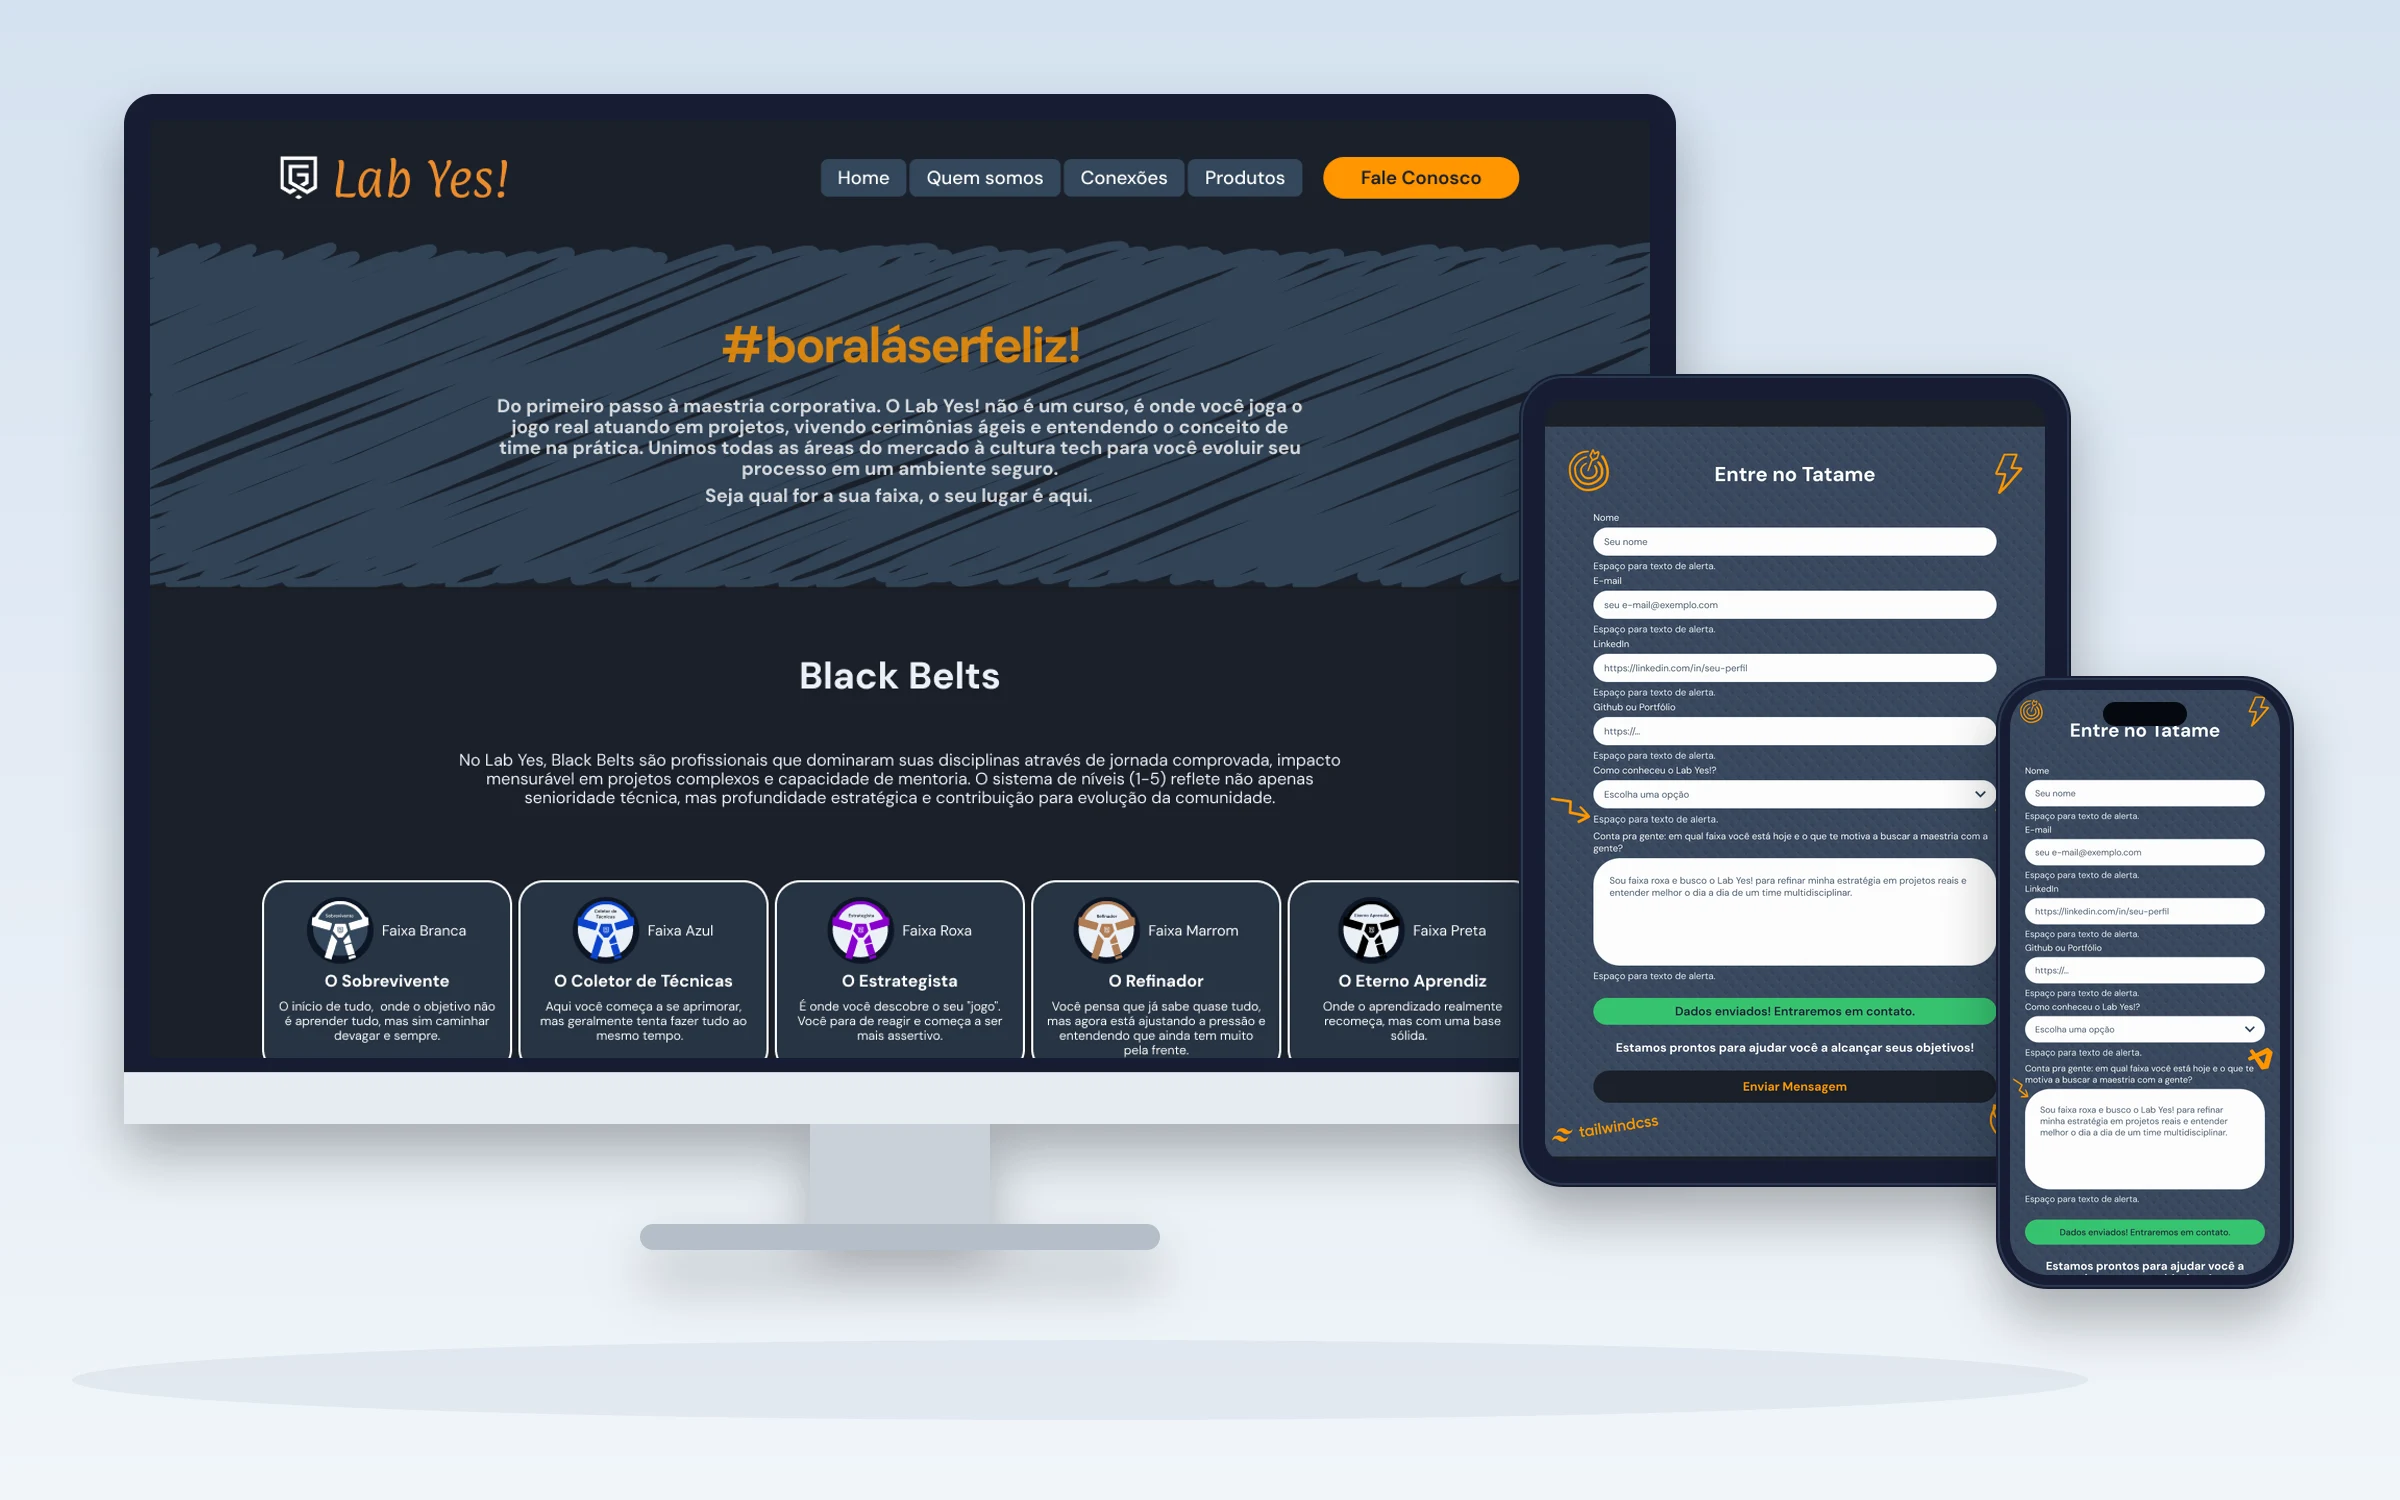
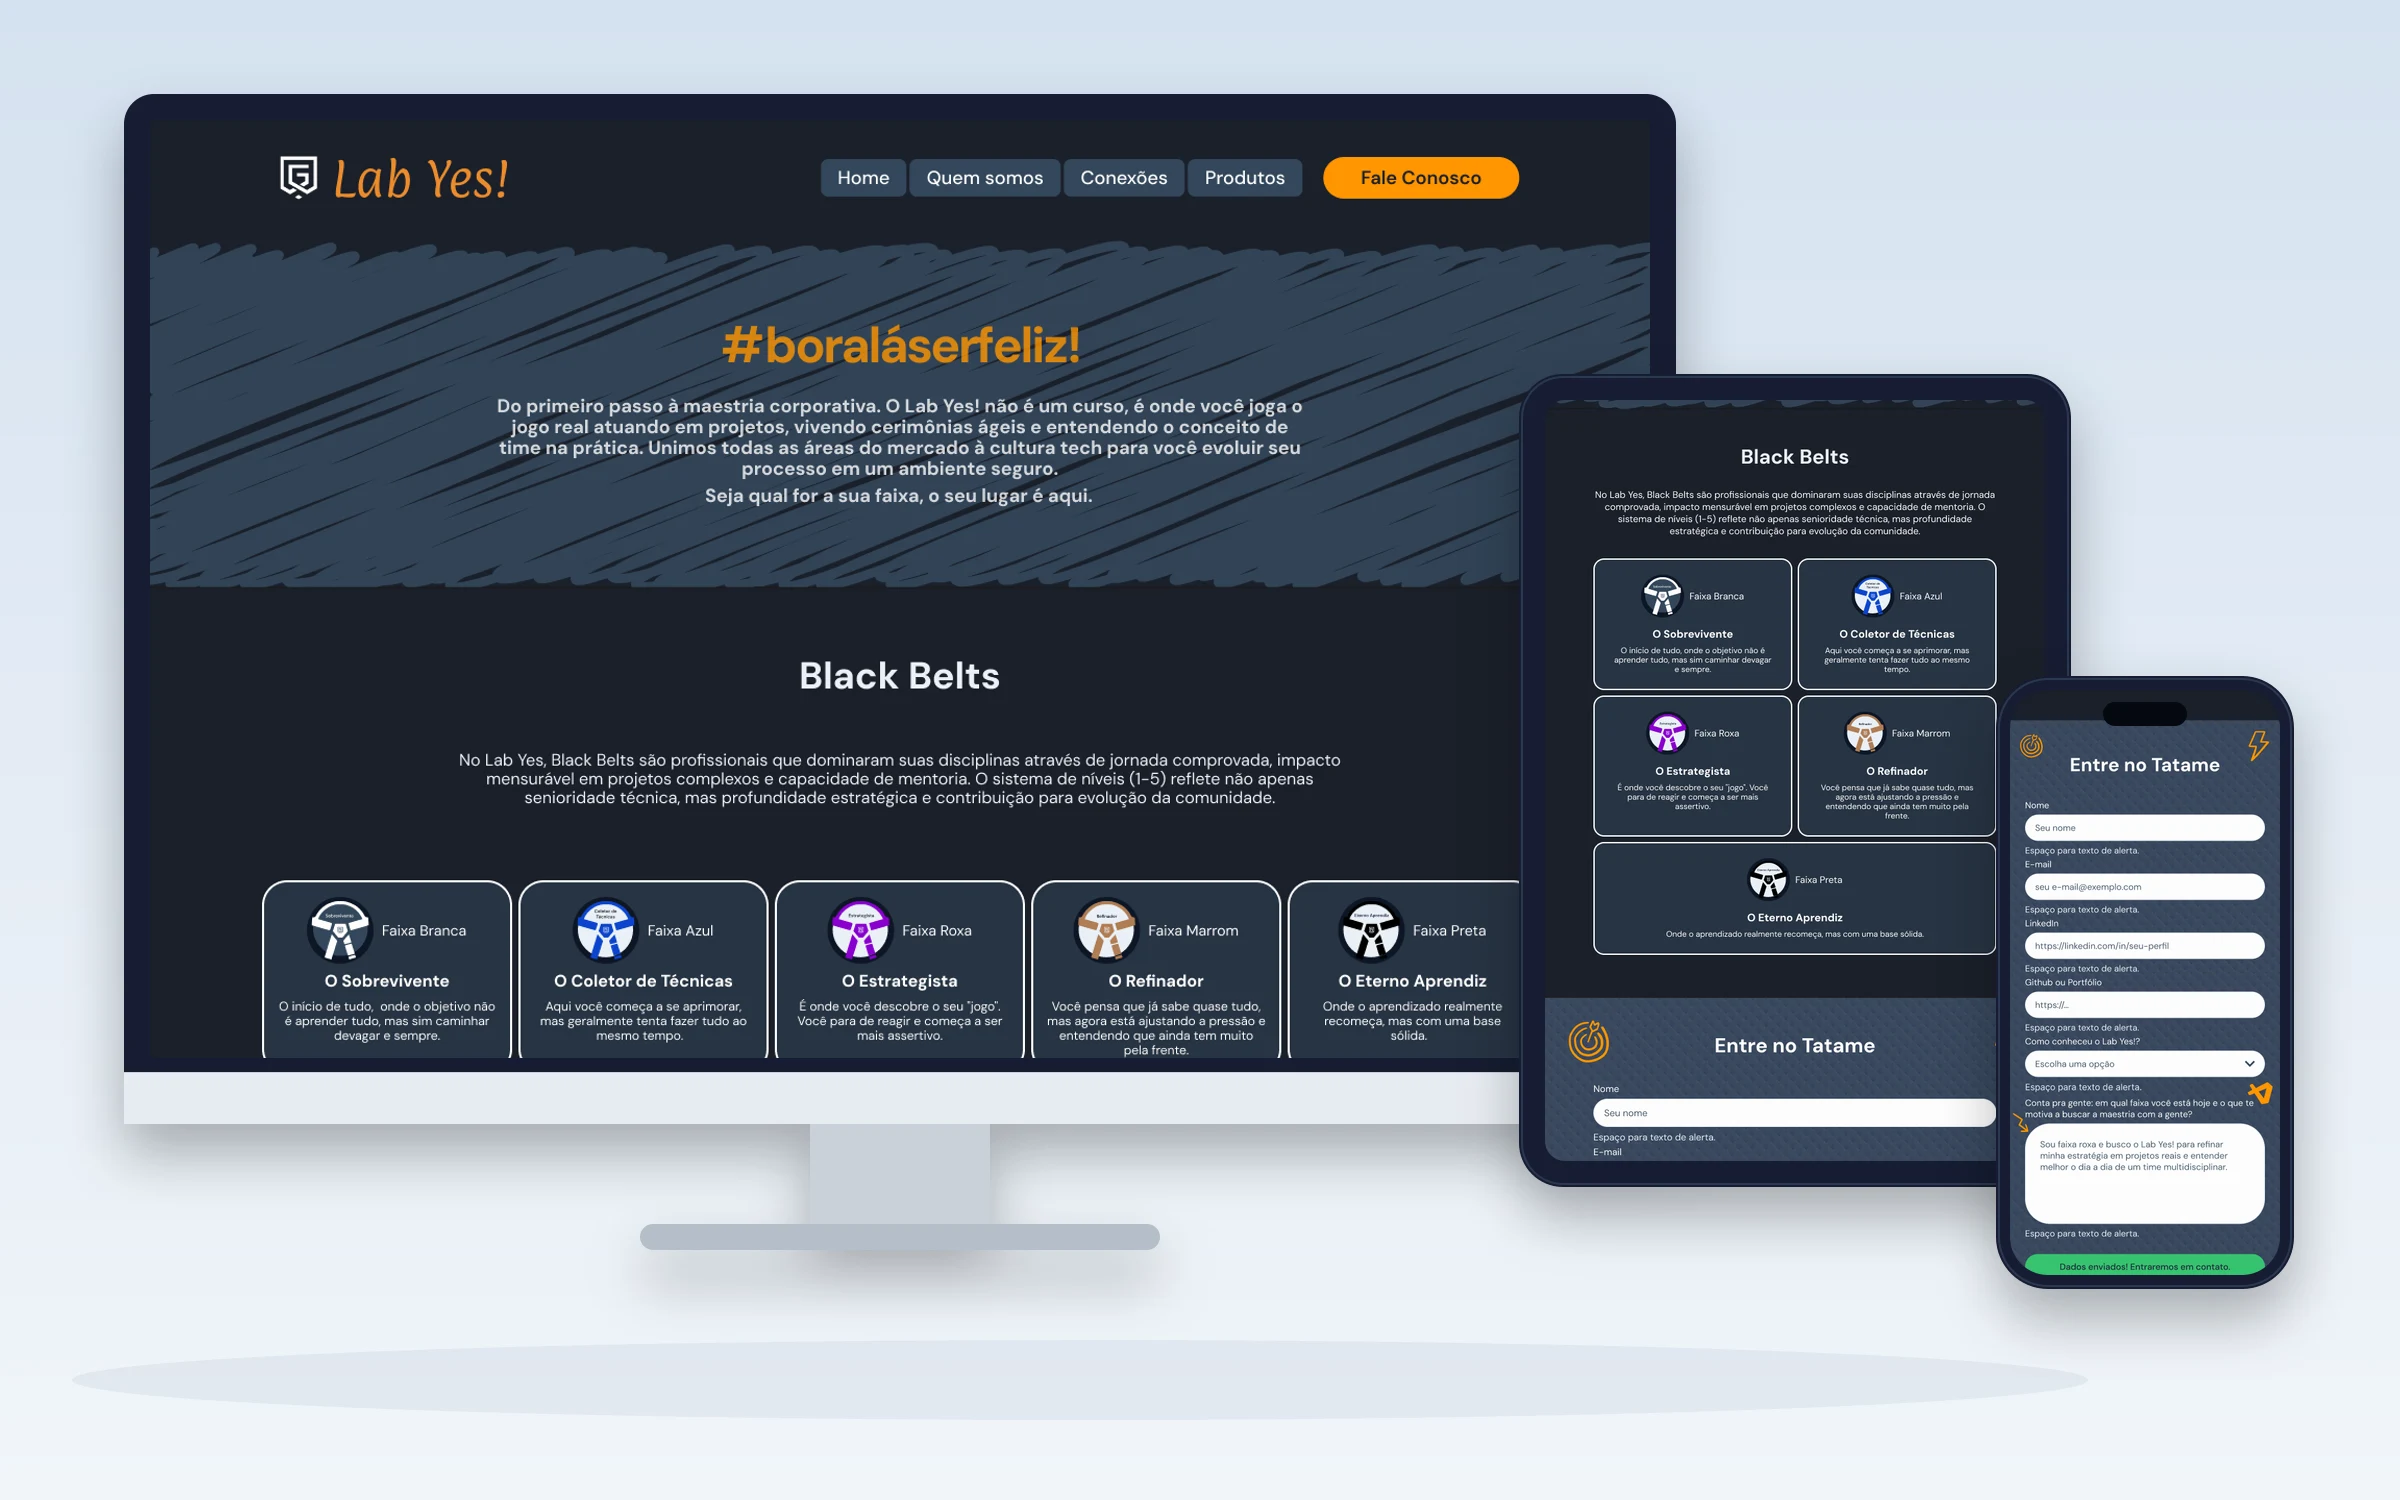
fix(lab-yes): cada mockup mostra uma parte da tela nova

Changed region(s): [[0.625, 0.2453, 0.9688, 0.8587]]

diff --git a/src/data/projects.ts b/src/data/projects.ts
@@ -516,8 +516,8 @@ export const projects: Project[] = [
   },
   depois: {
    imagem: labYesDepois,
-   alt: "Tela nova do Fale Conosco do Lab Yes! em mockups de monitor, tablet e celular: no monitor, o hero e a seção Black Belts; no tablet e no celular, o formulário Entre no Tatame com rótulos visíveis.",
-   alt_en: "New Lab Yes! Contact page in monitor, tablet and phone mockups: the monitor shows the hero and Black Belts section; the tablet and phone show the Entre no Tatame form with visible labels.",
+   alt: "Tela nova do Fale Conosco do Lab Yes! em mockups de monitor, tablet e celular: no monitor, o hero #boraláserfeliz!; no tablet, a seção Black Belts com as faixas; no celular, o formulário Entre no Tatame com rótulos visíveis.",
+   alt_en: "New Lab Yes! Contact page in monitor, tablet and phone mockups: the monitor shows the #boraláserfeliz! hero; the tablet shows the Black Belts section with the belts; the phone shows the Entre no Tatame form with visible labels.",
    pontos: [
     "Tema escuro com alto contraste entre texto e fundo, sem texto sobre fotografia.",
     "Rótulo visível acima de cada campo (Nome, E-mail, LinkedIn, Portfólio), além de texto de ajuda.",
